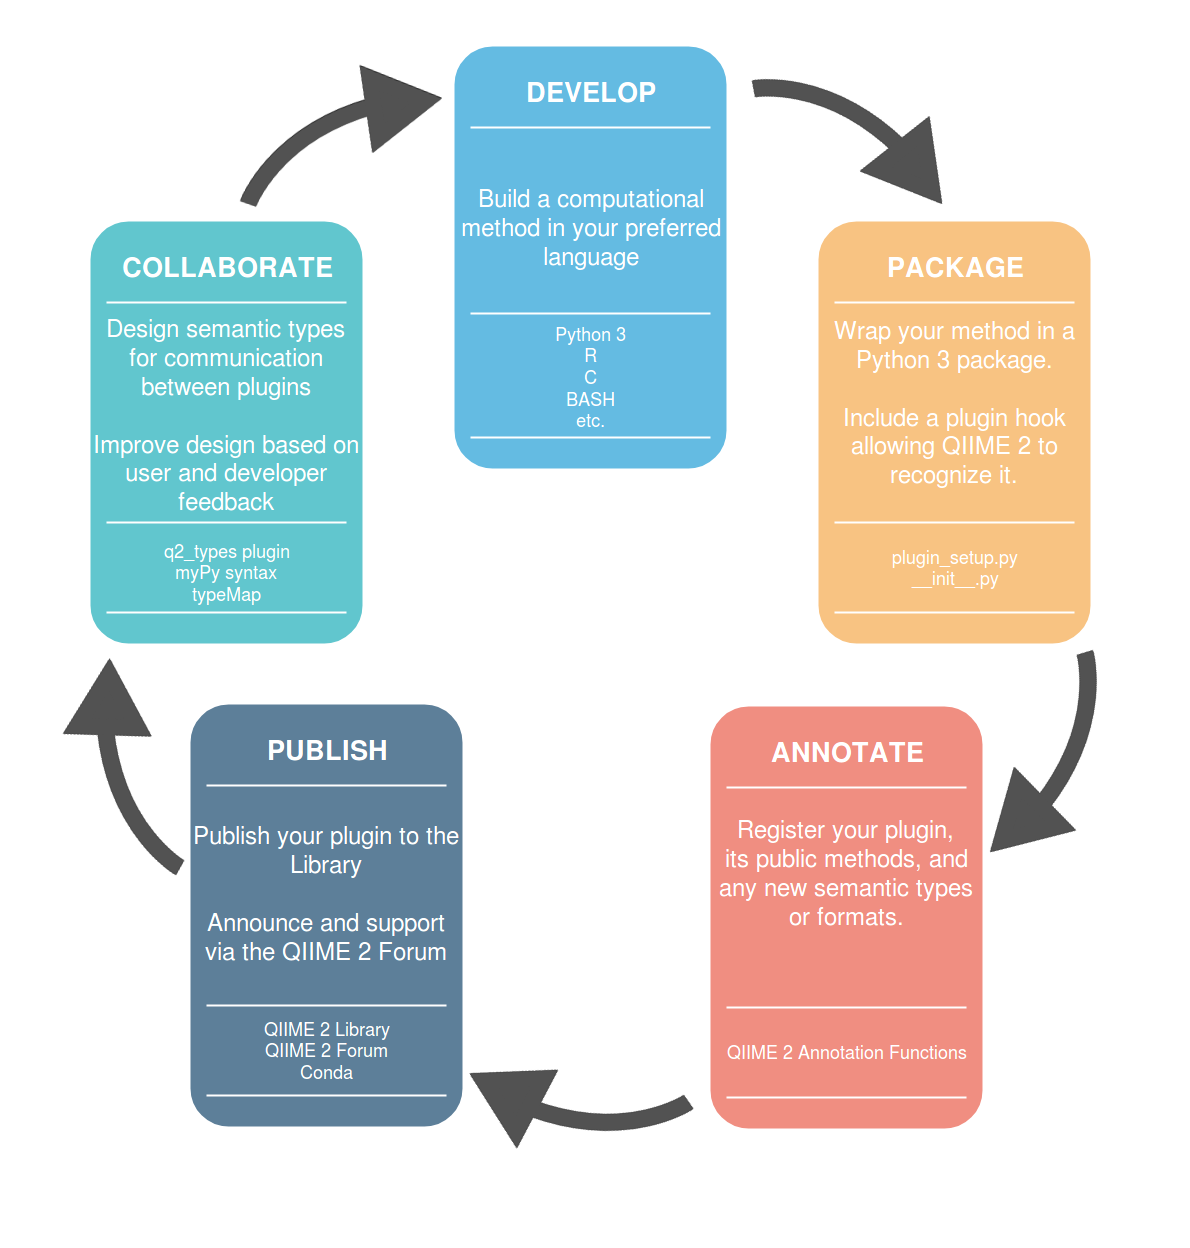
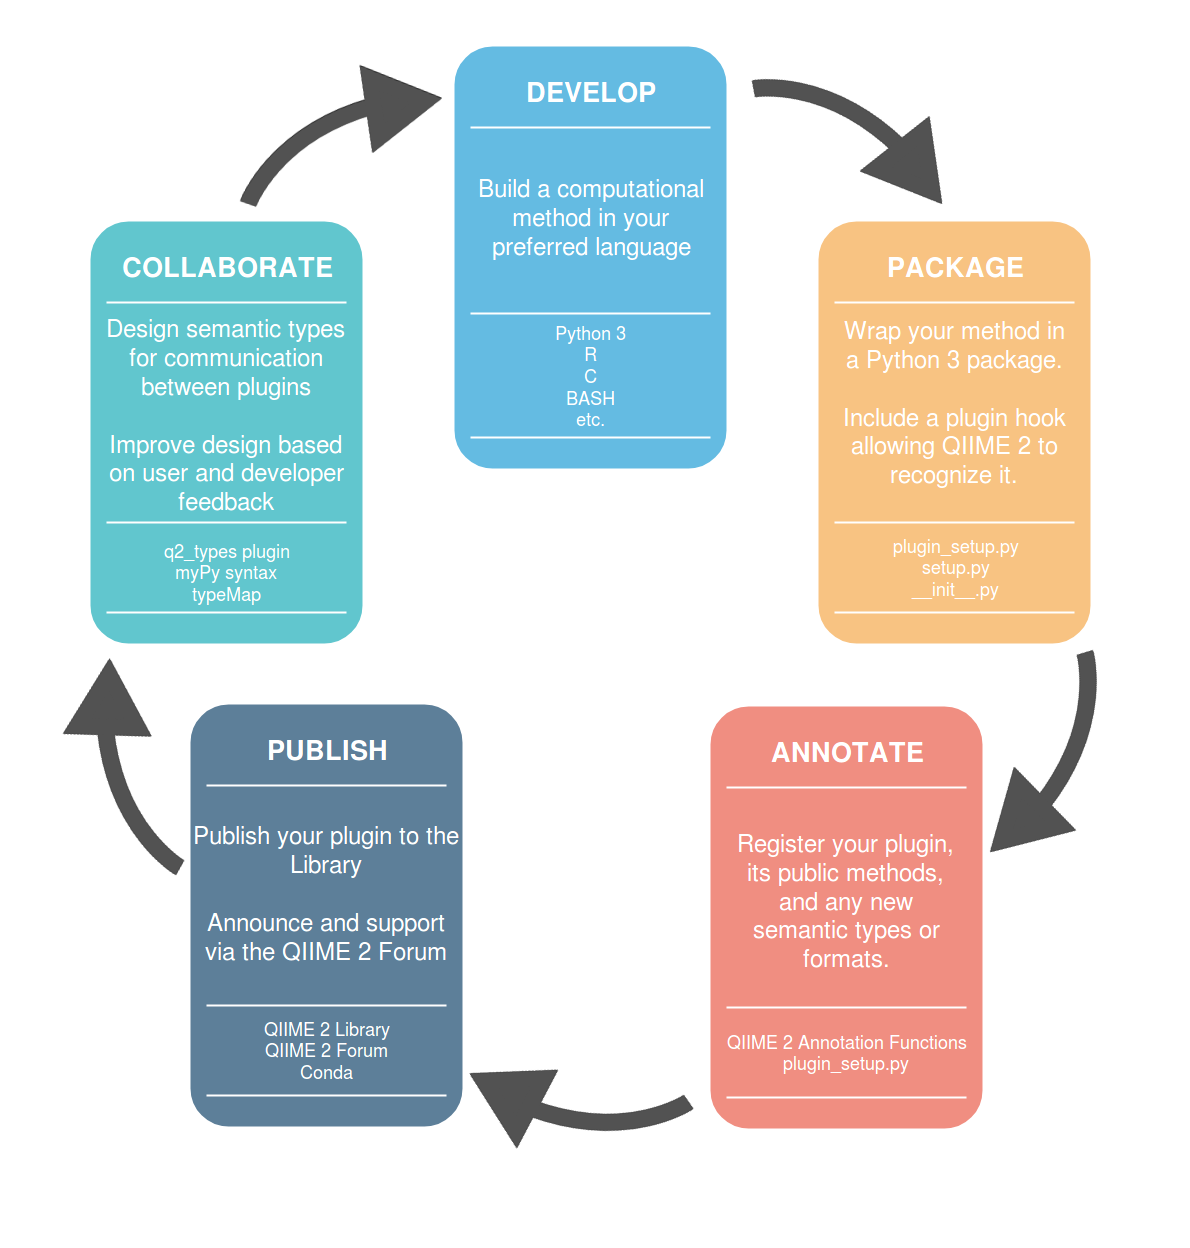
complete rough draft

diff --git a/poster.tex b/poster.tex
@@ -87,34 +87,38 @@
     \hfill\break
 
     \textbf{Introduction:} By wrapping a script in a python 3 package, then
-    annotating it with citation/authorship information and information about
-    the commands it makes available, the parameters they expose, and the types
-    of data they take in and put out, a plugin author can take advantage of
-    existing QIIME 2 infrastructure. This can greatly increase the robustness
-    and accessibility of their script, improve distribution and citation, and
-    facilitate the incorporation of their method into new and existing
-    analytical pipelines.
+    annotating it with information about the commands it makes available, the
+    parameters they expose, and the types of data they take in and put out, a
+    plugin author can take advantage of existing QIIME 2 infrastructure. This
+    can greatly increase the robustness and accessibility of their script,
+    improve distribution and citation, and facilitate the integration of
+    their method with new and existing analytical pipelines.
     \hfill\break
 
     \textbf{QIIME 2 provides:}
     \begin{itemize}
-      \item Interfaces: Familiar and powerful user interfaces for a diverse
-      user base (e.g. API, command line, graphical, galaxy, cwl)
-      \item Community: A vibrant user base, free forum infrastructure for
+      \item \textbf{Interfaces:} Familiar user interfaces for a diverse
+      user base (e.g. CLI, API, GUI, galaxy, cwl)
+      \item \textbf{Community:} A vibrant user base, free forum infrastructure for
       plugin support
-      \item Visibility: Centralized plugin publishing through the QIIME 2
+      \item \textbf{Visibility:} Centralized plugin publishing through the QIIME 2
       Library
-      \item Provenance: Integrated and automatic tracking of data provenance,
+      \item \textbf{Provenance:} Integrated and automatic tracking of data provenance,
       and built-in citation support
-      \item Low-level infrastructure: facilitates data I/O, communication
-      between disparate methods within an analytical pipeline, and
-      cross-platform software use
-      \item Semantic typing: A rich and extensible type system prevents user
+      \item \textbf{Low-level infrastructure:} Facilitates data I/O, communication
+      between disparate methods in an analytical pipeline, and cross-platform compatability
+      \item \textbf{Semantic typing:} A rich and extensible type system prevents user
       error, supports backwards compatability and collaboration
-      \item Sharing: Allows secure interaction with QIIME 2 artifacts and
-      visualizations without a software installation
+      \item \textbf{Sharing:} Allows secure interaction with QIIME 2 Results
+       without a software installation
     \end{itemize}
   \end{block}
+
+  \begin{figure}[tph!]
+  {\includegraphics[height=20cm]{assets/action_call_sequence_diagram}}
+  \caption{\,Plugins (green) reduce development overhead by utilizing existing infrastructure (blue).}
+  \label{fig:callSequence}
+  \end{figure}
 
   \begin{block}{Develop a method or algorithm}
 
@@ -123,7 +127,7 @@
   language accessible to Python 3 with a sub-process call: popular plugins wrap
   code written in R and C, and many options exist.\\
   \hfill\break
-  Example: the q2\_alignment plugin wraps the MAFFT application by importing \code{subprocess}, generating input and output filepaths, building a command for the OS from user parameters, and using that command to run MAFFT.\\
+  Example: the q2\_alignment plugin wraps the MAFFT application by importing \code{subprocess}, generating I/O filepaths, building a command for the OS, and using that command to run MAFFT.\\
       \begin{tcolorbox}
     [width=\textwidth, colframe=blue]
       {
@@ -146,41 +150,7 @@ def \=maff\=t(se\=quences: DNAFASTAFormat,\\
 \end{tabbing}}}}
       }
     \end{tcolorbox}
-
-  For the remainder of this poster, we will work with code examples from
-  \code{q2-diversity-lib}, a plugin in development for release with QIIME 2 2019.4
   \end{block}
-
-  \begin{block}{Annotate your method}
-    QIIME 2 visualizations can be shared and viewed without a software
-    install, and contain complete provenance information.
-
-    \begin{enumerate}
-      \item Interactive visualizations are significant in understanding and
-      communicating our data. (Figure \ref{fig:taxabar-plot})
-      \item QIIME 2's provenance graphs allow us to review which methods and
-      parameters were used, simplifying creation of an accurate methods section
-      and supplementary materials for academic publications.
-      \item We can generate a citation list for any result in this poster with \code{qiime tools citations}
-      \item Collaborators and reviewers of our work can use https://view.qiime2.org to confirm methods and outcomes are
-      appropriate, without the need to download any special software. (Figure 6)
-    \end{enumerate}
-
-  \begin{tcolorbox}
-  [width=\textwidth, colframe=blue]
-  {By packaging \code{Result}s with provenance, QIIME 2 reduces the risk that the
-  methods used to produce a given outcome are accidentally misreported.
-  QIIME 2 has integrated citation information into plugins, allowing
-  researchers to export citations as BibTeX}.
-  \end{tcolorbox}
-
-\end{block}
-
-\end{column}
-
-\separatorcolumn
-
-\begin{column}{\colwidth}
 
   \begin{block}{Introduce new kinds of data}
     Some computational methods require the creation of novel data formats, or
@@ -197,24 +167,47 @@ def \=maff\=t(se\=quences: DNAFASTAFormat,\\
     \end{tcolorbox}
   \end{block}
 
+\end{column}
+
+\separatorcolumn
+
+\begin{column}{\colwidth}
+
+\begin{block}{Annotate your method}
+  Plugin annotation allows the QIIME 2 framework to recognize and communicate with plugins.
+  Further, it creates a "common language" for composing analytical pipelines,
+  assigning semantic types to method results which allow them to be interpreted by other
+  methods in any other plugin.
+
+  Plugin annotation is simple (see Figure ~\ref{fig:registrationDiagram}), and allows plugin documentation
+  to be generated in any interface. Citation information registered in plugins
+  is automatically captured in Result provenance.
+
+  To annotate your plugin:
+
+  \begin{enumerate}
+    \item Import any necessary dependencies (e.g. the \code{Plugin}) method from \code{qiime2.plugin},
+    or existing semantic types from \code{q2\_types}), and the top-level folder that holds your plugin's methods. TODO: WORKSHOP THIS
+    \item Use \code{Plugin()} to register your plugin.
+    \item Use \code{register\_function()} to register \textit{each} public method the plugin offers
+    \item Use \code{TODO: FX Name} to register any new semantic types or formats available in this plugin.
+  \end{enumerate}
+
+\end{block}
+
   \begin{block}{Visualizations}
     \begin{figure}[tph!]
     {\includegraphics[height=24cm]{assets/DevelopmentProcessDiagramGreyWBG}}
     \caption{\,QIIME 2 plugin development cycle diagram. }
-    \label{fig:taxabar-plot}
+    \label{fig:processDiagram}
     \end{figure}
 
     \begin{figure}[tph!]
-    {\includegraphics[height=14cm]{assets/provenance}}
-    \caption{\,Provenance tree describing the production of a taxonomic bar plot visualization. Provenance is automatically packaged with ever QIIME 2 Artifact. QR code provides interactive access to provenance tree and bar plot.}
-    \label{fig:provenance}
+    {\includegraphics[height=24cm]{assets/registrationDiagram}}
+    \caption{\,Overview of registration annotation for QIIME 2 plugins}
+    \label{fig:registrationDiagram}
     \end{figure}
 
-    \begin{figure}[tph!]
-      {\includegraphics[height=18cm]{assets/q2studio}}
-      \caption{\,QIIME 2 Studio provides GUI access to all QIIME 2 plugins installed in the currently active QIIME 2 environment}
-      \label{fig:q2studio}
-      \end{figure}
   \end{block}
 
   \begin{block}{Project Funding}
@@ -245,52 +238,53 @@ def \=maff\=t(se\=quences: DNAFASTAFormat,\\
 
   \begin{block}{Create a python package}
 
-    Plugins are python packages with metadata hooks which QIIME 2 uses to facilitate
-    communication with the other plugins in a given deployment. Packaging
-    provides the added benefit of making plugin installation easy for users:
+    Plugins are python packages with metadata hooks QIIME 2 uses to facilitate
+    communication with the other plugins in a deployment. Packaging
+    simplifies plugin installation for users, and provides access to the QIIME 2 platform.
 
     \begin{figure}[tph!]
-      {\includegraphics[height=16cm]{assets/HPC_Analysis}}
-      \caption{\,TODO: Diagram like the MAKE THE REPO diagram in Claire's walkthrough}
-      \label{fig:dada2}
+      {\includegraphics[height=10cm]{assets/package_structure}}
+      \caption{\,File map of a simple python package. Note \code{plugin\_setup.py} required for QIIME 2 plugins.
+      TODO: Rebuild this in a more visually appealing way.}
+      \label{fig:packageStructure}
     \end{figure}
 
     \begin{tcolorbox}
     [width=\textwidth, colframe=blue]
     {Python packaging may be the most challenging part of plugin creation
-    for new developers, because the structure of your software will dictate
-    the structure of the package you build. }
+    for new developers, because software structure impacts package structure.
+    Generally, the structure resembles Figure ~\ref{fig:packageStructure}}
     \end{tcolorbox}
-    TODO: Reference the tree above\\
+
     General guidelines:
     \begin{itemize}
       \item Define one or more Python 3 functions, installable with \code{setuptools}
       \item In your \code{plugin\_setup.py}, instantiate a \code{qiime2.plugin.Plugin} object
       \item In your plugin package's \code{setup.py}, define that instance as an entry point
-      \item Include \code{\_\_init\_\_.py} files for every subfolder of your plugin which contains function definitions. Note: some of these \code{\_\_init\_\_.py}
-      files will only serve to aggregate and make visible subfolder function names
+      \item Include \code{\_\_init\_\_.py} files for every subfolder of your plugin which
+      contains function definitions. These make function names accessible for registration and use.
     \end{itemize}
   \end{block}
 
   \begin{block}{Publish and support}
 
-    QIIME 2’s decentralized provenance tracking makes it easy for anyone to reproduce our
-    computational analysis independently to confirm the quality of our results.
-    Should one choose to expand our study, or conduct further research using
-    similar methods, provenance graphs provide a “road map”.
+    Completed plugins may be published to the QIIME 2 Library, and announced
+    in the Community Contributions category of the QIIME 2 forum. Many developers
+    also use the forum as their primary platform for user support.
+
+    Though optional, most developers publish their plugins on Conda. This greatly
+    improves dependency handling and simplifies installation.
 
   \end{block}
 
   \begin{block}{Future capabilities}
 
     \begin{itemize}
-      \item \textbf{Allow QIIME 2 to consume provenance:} Reading
-      provenance \textit{into} QIIME 2 could allow for computer-assisted
-      introspection into research methods, automated transcription of methods
-      for publication, and auto-generation of “pipeline” scripts for common workflows.
-      \item \textbf{QIIME 2 Studio and HPC:} In the future, we hope that QIIME 2 Studio might interact
-      directly with HPC schedulers, to simplify the process of connecting with
-      and running computationally-intensive processes remotely.
+      \item \textbf{TODO: SP? Type Map:} A new type map system will launch in QIIME 2 2019.4,
+      allowing developers powerful new tools for manipulating and constraining the types of
+      data used and produced by methods. Type map will allow plugins to assign
+      nuanced types to their outputs programatically (e.g. based on parameterization),
+      and will enhance plugins' ability to intelligently constrain allowable data inputs.
     \end{itemize}
 
   \end{block}
@@ -302,6 +296,7 @@ def \=maff\=t(se\=quences: DNAFASTAFormat,\\
       \item \href{https://dev.qiime2.org/latest/storing-data/types/}{Semantic and Primitive Types: dev.qiime2.org/latest/storing-data/types/}
       \item \href{https://library.qiime2.org/}{QIIME 2 Library: library.qiime2.org/}
       \item \href{https://python-packaging.readthedocs.io/en/latest/minimal.html}{Python Packaging: python-packaging.readthedocs.io/en/latest/minimal.html}
+      \item \href{https://dev.qiime2.org/latest/tutorials/conda-tutorial/}{Publishing plugins on Conda: dev.qiime2.org/latest/tutorials/conda-tutorial/}
     \end{itemize}
   \end{block}
 
